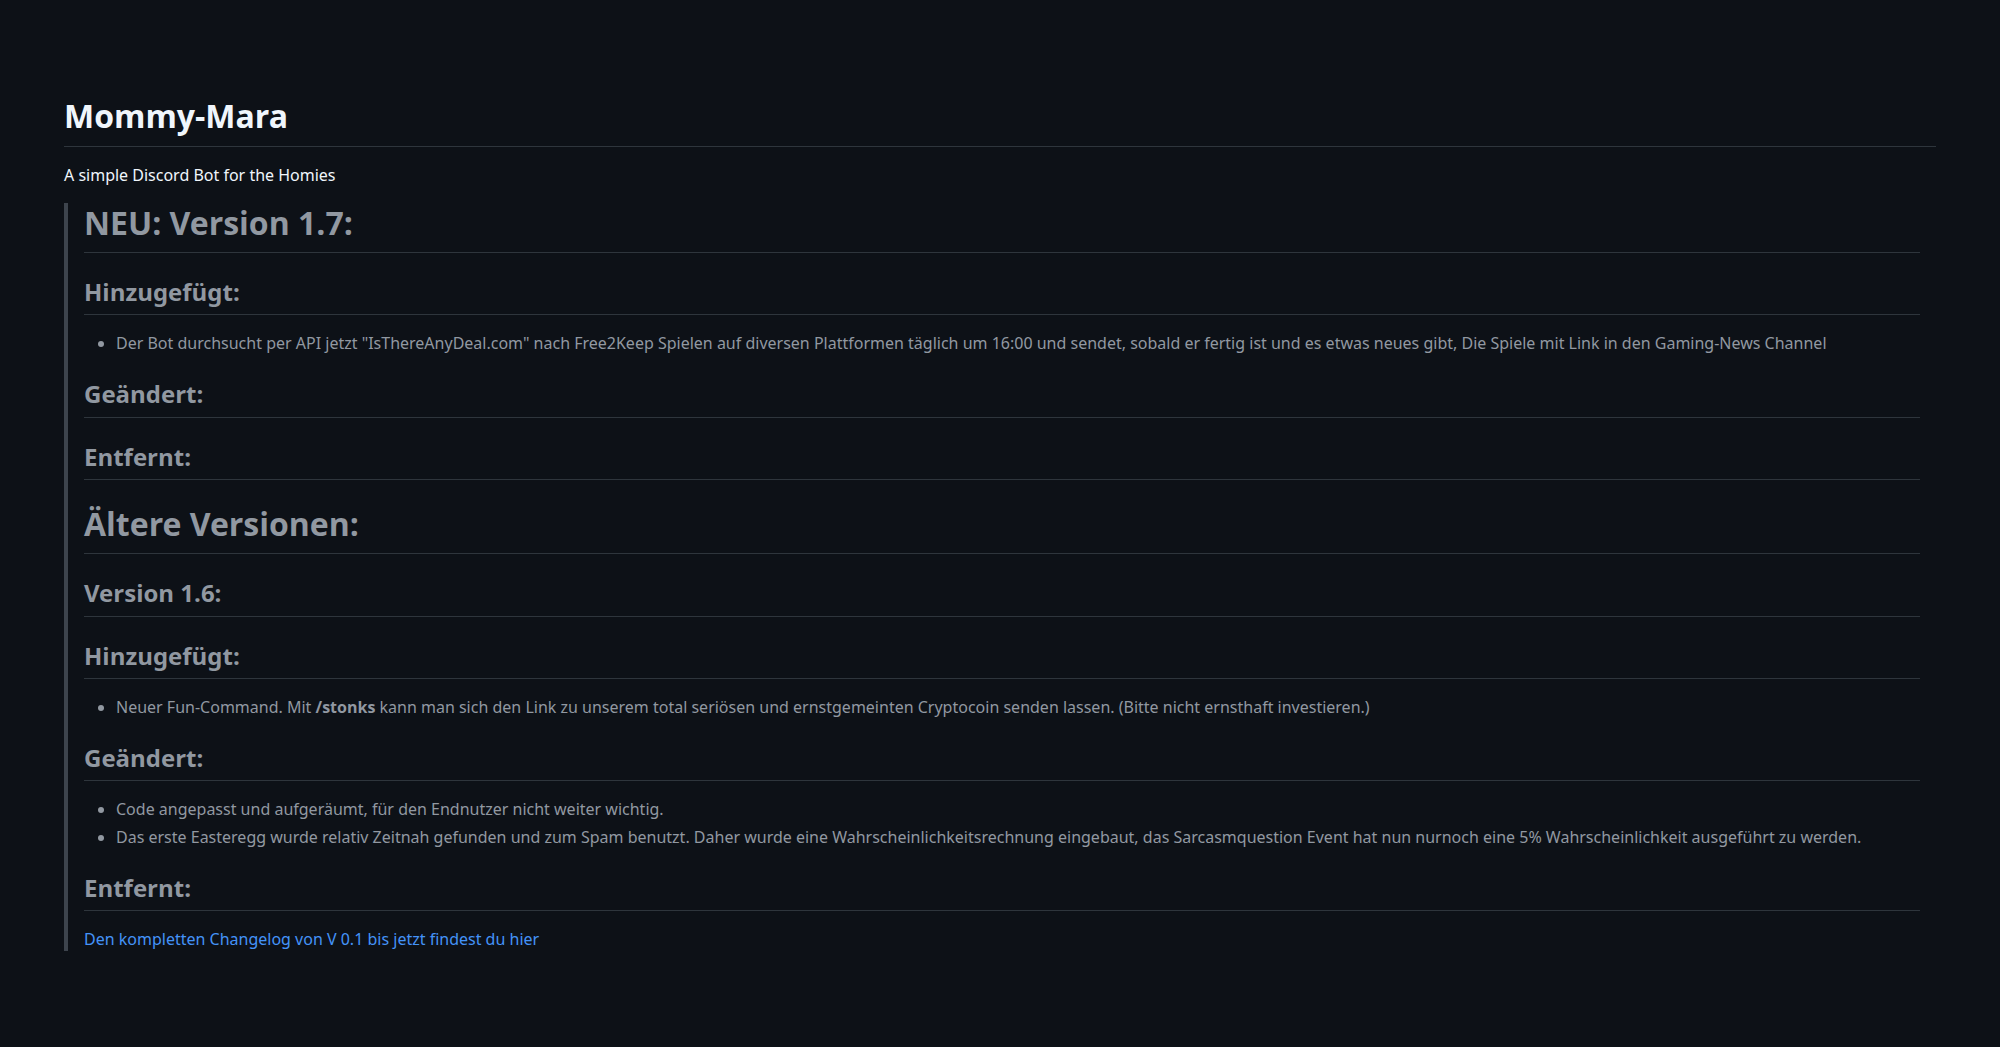
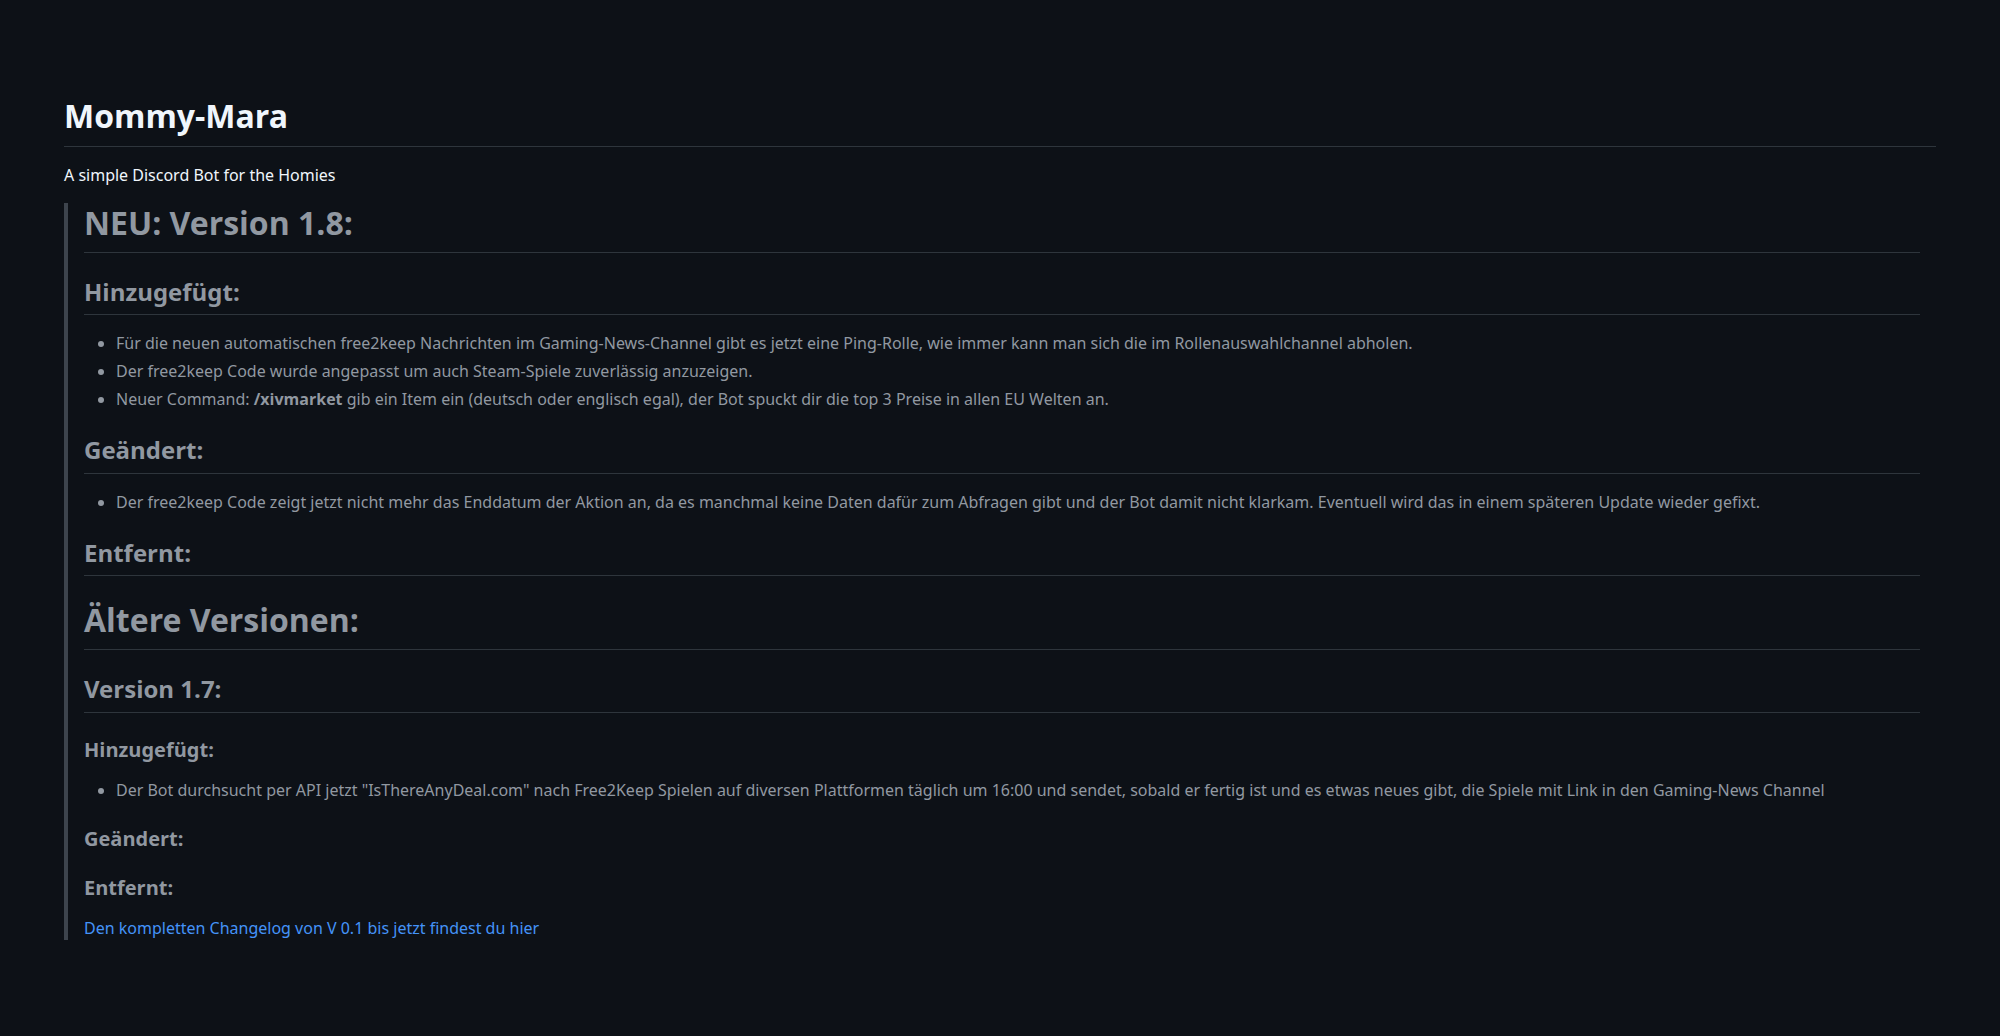
Update V1.8

diff --git a/commands/Fun/xivmarket.js b/commands/Fun/xivmarket.js
@@ -1,0 +1,171 @@
+const { SlashCommandBuilder } = require('discord.js');
+
+const cooldown = new Set();
+const cooldownTime = 5000;
+
+module.exports = {
+    data: new SlashCommandBuilder()
+        .setName('xivmarket')
+        .setDescription('Frage die top 3 Preise eines FF14 Items ab')
+        .addStringOption(option =>
+            option.setName('item')
+                .setDescription('Welches Item suchst du?')
+                .setRequired(true)),
+
+    async execute(interaction) {
+
+        var item = interaction.options.getString('item');
+
+        if (cooldown.has(interaction.user.id)) {
+
+            interaction.reply({ content: "Brudi du bist noch auf Cooldown, warte bitte.", ephemeral: true });
+
+        }
+        else {
+
+            await interaction.reply({ content: 'Gib mir ne Sekunde.', ephemeral: true })
+
+            const fetch = require('node-fetch');
+
+            const DC_NAMES = ['Chaos', 'Light'];
+
+            const norm = s => s
+                ? s.normalize('NFD').replace(/\p{Diacritic}/gu, '').toLowerCase().trim()
+                : '';
+
+            function levenshtein(a = '', b = '') {
+                const m = a.length, n = b.length;
+                const dp = Array.from({ length: m + 1 }, (_, i) => [i].concat(Array(n).fill(0)));
+                for (let j = 0; j <= n; j++) dp[0][j] = j;
+                for (let i = 1; i <= m; i++) {
+                    for (let j = 1; j <= n; j++) {
+                        const cost = a[i - 1] === b[j - 1] ? 0 : 1;
+                        dp[i][j] = Math.min(
+                            dp[i - 1][j] + 1,
+                            dp[i][j - 1] + 1,
+                            dp[i - 1][j - 1] + cost
+                        );
+                    }
+                }
+                return dp[m][n];
+            }
+
+            async function findItem(query) {
+                const languages = ['de', 'en'];
+                const nq = norm(query);
+                const MAX_DIST = 5;
+
+                for (const lang of languages) {
+                    const url = `https://cafemaker.wakingsands.com/search?indexes=item&string=${encodeURIComponent(query)}&language=${lang}`;
+                    try {
+                        const res = await fetch(url);
+                        if (!res.ok) continue;
+                        const data = await res.json();
+                        if (!data.Results || !data.Results.length) continue;
+
+                        const exact = data.Results.find(r => norm(r.Name) === nq);
+                        if (exact) return { id: exact.ID, name: exact.Name };
+
+                        let best = null;
+                        for (const r of data.Results) {
+                            const dist = levenshtein(nq, norm(r.Name));
+                            if (dist <= MAX_DIST && (!best || dist < best.dist)) {
+                                best = { id: r.ID, name: r.Name, dist };
+                            }
+                        }
+
+                        if (best) return best;
+
+                    } catch (err) {
+                    }
+                }
+
+                return null;
+            }
+
+
+            async function fetchListingsEU(itemId, listingsPerDc = 100) {
+                const listings = [];
+                for (const dc of DC_NAMES) {
+                    const url = `https://universalis.app/api/v2/${dc}/${itemId}?listings=${listingsPerDc}`;
+                    try {
+                        const res = await fetch(url);
+                        if (!res.ok) continue;
+                        const data = await res.json();
+                        if (Array.isArray(data.listings)) {
+                            data.listings.forEach(L => {
+                                if (typeof L.pricePerUnit === 'number')
+                                    listings.push({ ...L, dc, total: L.pricePerUnit * (L.quantity || 1) });
+                            });
+                        }
+                    } catch { }
+                }
+                return listings;
+            }
+
+            async function getTop3EUPrices(query) {
+                try {
+                    const item = await findItem(query);
+                    if (!item) return [`Fehler: Item nicht gefunden! (${query})`];
+
+                    const listings = await fetchListingsEU(item.id);
+                    if (!listings.length) return [`Keine Listings für "${item.name}" gefunden`];
+
+                    listings.sort((a, b) => a.pricePerUnit - b.pricePerUnit || a.quantity - b.quantity);
+
+                    return listings.slice(0, 3).map((l, i) => ({
+                        rank: i + 1,
+                        itemId: item.id,
+                        itemName: item.name,
+                        dc: l.dc,
+                        world: l.worldName || l.world || '<unknown>',
+                        hq: !!l.hq,
+                        pricePerUnit: l.pricePerUnit,
+                        quantity: l.quantity,
+                        total: l.total
+                    }));
+
+                } catch (e) {
+                    return
+                }
+            }
+            module.exports = { getTop3EUPrices };
+
+            (async () => {
+                const listings = await getTop3EUPrices(item);
+
+                if (!listings || typeof listings[0] === 'string') {
+                    interaction.editReply(`Item nicht gefunden, entweder Schreibfehler oder keine Listings`)
+                    return;
+                }
+
+                const itemName = listings[0].itemName;
+
+                const price1 = listings[0].pricePerUnit;
+                const price2 = listings[1]?.pricePerUnit;
+                const price3 = listings[2]?.pricePerUnit;
+
+                const world1 = listings[0].world;
+                const world2 = listings[1]?.world;
+                const world3 = listings[2]?.world;
+
+                const quantity1 = listings[0].quantity;
+                const quantity2 = listings[1]?.quantity;
+                const quantity3 = listings[2]?.quantity;
+
+
+                interaction.editReply(`> Folgende Listings wurden für **${itemName}** gefunden:\n> \n> ### 📌${world1}: ${price1} Gil, ${quantity1} Stück\n> \n> ### 📌${world2}: ${price2} Gil, ${quantity2} Stück\n> \n> ### 📌${world3}: ${price3} Gil, ${quantity3} Stück`)
+            })();
+
+
+
+
+
+            cooldown.add(interaction.user.id);
+            setTimeout(() => {
+                cooldown.delete(interaction.user.id);
+            }, cooldownTime);
+
+        }
+    },
+};

diff --git a/events/freegames.js b/events/freegames.js
@@ -2,7 +2,7 @@ const https = require("https");
 const fs = require("fs");
 const cron = require("node-cron");
 const client = require("../index.js")
-const channel = "1261020564730941580"
+const channel = "1332442011239710812"
 
 const { API_KEY } = require("../config.json");
 const BASE_URL = "https://api.isthereanydeal.com/deals/v2";
@@ -39,16 +39,15 @@ function fetchPage(offset) {
           const list = json.list || json.data?.list || [];
           resolve(list);
         } catch (err) {
-          console.error("Fehler beim Parsen:", err);
           resolve([]);
         }
       });
     }).on("error", err => {
-      console.error("HTTP-Fehler:", err);
       resolve([]);
     });
   });
 }
+
 
 async function fetchAllDeals() {
   let offset = 0, page = 1, allDeals = [];
@@ -87,33 +86,78 @@ function chunkMessage(lines) {
   return chunks;
 }
 
+const puppeteer = require("puppeteer");
+
+async function fetchSteamDB() {
+  const browser = await puppeteer.launch({ headless: true });
+  const page = await browser.newPage();
+
+  const url = "https://store.steampowered.com/search/?maxprice=free&specials=1&ndl=1";
+  await page.goto(url, { waitUntil: "networkidle2" });
+
+  await page.waitForSelector(".search_result_row");
+
+  const deals = await page.evaluate(() => {
+    const rows = Array.from(document.querySelectorAll(".search_result_row"));
+    return rows.map(r => {
+      const title = r.querySelector(".title")?.innerText.trim();
+      const link = r.href;
+      let expiry = null;
+
+      const discountSpan = r.querySelector(".search_discount span");
+      if (discountSpan) {
+        const text = discountSpan.innerText;
+        const match = text.match(/Free until (.+)/);
+        if (match) {
+          expiry = new Date(match[1]).getTime() / 1000;
+        }
+      }
+
+      return { title, deal: { url: link, expiry }, source: "Steam" };
+    });
+  });
+
+  await browser.close();
+  return deals;
+}
+
 async function checkDeals() {
   const allDeals = await fetchAllDeals();
 
-  const todayDeals = allDeals.filter(g => g.deal.cut >= 100);
+  const steamDeals = await fetchSteamDB();
 
+  const todayDeals = allDeals.filter(g => g.deal.cut >= 100);
   const todayTitles = todayDeals.map(g => g.title);
+
+  const steamTitles = steamDeals.map(d => d.title);
+
+  const allTitlesToSave = [...todayTitles, ...steamTitles];
+
   const oldTitles = loadOldDeals();
-  const newDeals = todayDeals.filter(g => !oldTitles.includes(g.title));
+
+  const combinedDeals = [...todayDeals, ...steamDeals];
+  const newDeals = combinedDeals.filter(g => !oldTitles.includes(g.title));
+
 
   if (newDeals.length > 0) {
     const messageLines = newDeals.map(g => {
-      const shop = g.deal.shop?.name || "Unbekannter Shop";
-      const endDate = g.deal.expiry ? formatDate(Math.floor(new Date(g.deal.expiry).getTime() / 1000)) : null;
-      const link = g.urls?.buy || g.deal.url || "";
+      const shop = g.deal?.shop?.name || g.source || "Unbekannter Shop";
+      const endDate = g.deal?.expiry ? formatDate(Math.floor(g.deal.expiry)) : null;
+      const link = g.deal?.url || "";
       return `## - [${shop}] [**${g.title}**](${link})${endDate ? `\n→ **endet am ${endDate}**\n` : ""}`;
     });
 
     const chunks = chunkMessage(messageLines);
-    chunks.forEach((chunk, idx) => {
-      client.channels.cache.get(channel).send(`\n# 📢 Neue Free2Keep-Titel:\n${chunk}\n`);
-    });
+    for (const chunk of chunks) {
+      client.channels.cache.get(channel)?.send(`\n<@&1405476709062545408>\n# 📢 Neue Free2Keep-Titel:\n${chunk}\n`);
+    }
   }
 
-  saveDeals(todayTitles);
+  saveDeals(allTitlesToSave);
 }
 
-cron.schedule("* 16 * * *", () => {
+
+cron.schedule("0 16 * * *", () => {
   checkDeals();
 });
 

diff --git a/events/ready.js b/events/ready.js
@@ -11,7 +11,7 @@ const reactionmessagetext = fs.readFileSync('./REACTIONMESSAGE.md').toString();
 
 const consentmessagetext = fs.readFileSync('./CONSENTMESSAGE.md').toString();
 
-let EmoteIDs = ['1187771288538861689', '1187773164533600377', '1187773148867870851', '1187773174813839530', '1116463855955091518', '1187773155473887242', '1187773151850020874', '1187772048102133761', '1261600995100725248', '1187773171311591474', '1187773167628992564']
+let EmoteIDs = ['1187771288538861689', '1187773164533600377', '1187773148867870851', '1187773174813839530', '1116463855955091518', '1187773155473887242', '1187773151850020874', '1187772048102133761', '1261600995100725248', '1187773171311591474', '1187773167628992564', '1116459600791752744']
 
 const Amogusded = '1164163602433974312';
 

diff --git a/events/ReactionRoles.js b/events/ReactionRoles.js
@@ -28,7 +28,9 @@ const rpg = { emote: '1116463855955091518', role: '1236744003299311769' };
 
 const no = { emote: '1164163602433974312', role: '1237782649477664839' };
 
-let emoteArray = [moba, shooter, simulator, mmo, horror, fighting, sandbox, racing, vr, other, rpg, no]
+const fgping = { emote: '1116459600791752744', role: '1405476709062545408' };
+
+let emoteArray = [moba, shooter, simulator, mmo, horror, fighting, sandbox, racing, vr, other, rpg, no, fgping]
 
 module.exports = {
     name: Events.MessageReactionAdd,

diff --git a/CHANGELOG.md b/CHANGELOG.md
@@ -1,26 +1,27 @@
 # Mommy-Mara
 A simple Discord Bot for the Homies
 
-> # NEU: Version 1.7:
+> # NEU: Version 1.8:
 > 
 > ## Hinzugefügt:
-> * Der Bot durchsucht per API jetzt "IsThereAnyDeal.com" nach Free2Keep Spielen auf diversen Plattformen täglich um 16:00 und sendet, sobald er fertig ist und es etwas neues gibt, Die Spiele mit Link in den Gaming-News Channel
+> * Für die neuen automatischen free2keep Nachrichten im Gaming-News-Channel gibt es jetzt eine Ping-Rolle, wie immer kann man sich die im Rollenauswahlchannel abholen.
+> * Der free2keep Code wurde angepasst um auch Steam-Spiele zuverlässig anzuzeigen.
+> * Neuer Command: **/xivmarket** gib ein Item ein (deutsch oder englisch egal), der Bot spuckt dir die top 3 Preise in allen EU Welten an.
 > 
 > ## Geändert:
+> * Der free2keep Code zeigt jetzt nicht mehr das Enddatum der Aktion an, da es manchmal keine Daten dafür zum Abfragen gibt und der Bot damit nicht klarkam. Eventuell wird das in einem späteren Update wieder gefixt.
 > 
 > ## Entfernt:
 > 
 > # Ältere Versionen:
 > 
-> ## Version 1.6:
+> ## Version 1.7:
 > 
-> ## Hinzugefügt:
-> * Neuer Fun-Command. Mit **/stonks** kann man sich den Link zu unserem total seriösen und ernstgemeinten Cryptocoin senden lassen. (Bitte nicht ernsthaft investieren.)
+> ### Hinzugefügt:
+> * Der Bot durchsucht per API jetzt "IsThereAnyDeal.com" nach Free2Keep Spielen auf diversen Plattformen täglich um 16:00 und sendet, sobald er fertig ist und es etwas neues gibt, die Spiele mit Link in den Gaming-News Channel
 > 
-> ## Geändert:
-> * Code angepasst und aufgeräumt, für den Endnutzer nicht weiter wichtig.
-> * Das erste Easteregg wurde relativ Zeitnah gefunden und zum Spam benutzt. Daher wurde eine Wahrscheinlichkeitsrechnung eingebaut, das Sarcasmquestion Event hat nun nurnoch eine 5% Wahrscheinlichkeit ausgeführt zu werden.
+> ### Geändert:
 > 
-> ## Entfernt:
+> ### Entfernt:
 > 
 > [Den kompletten Changelog von V 0.1 bis jetzt findest du hier](<https://github.com/LonelyChimo302/Vexgod-Discord-Bot>)

diff --git a/README.md b/README.md
@@ -1,26 +1,38 @@
 # Vexgod-Discord-Bot
 A simple Discord Bot for the Homies
 
-> # NEU: Version 1.7:
+> # Version 1.8:
 > 
 > ## Hinzugefügt:
-> * Der Bot durchsucht per API jetzt "IsThereAnyDeal.com" nach Free2Keep Spielen auf diversen Plattformen täglich um 16:00 und sendet, sobald er fertig ist und es etwas neues gibt, Die Spiele mit Link in den Gaming-News Channel
+> * Für die neuen automatischen free2keep Nachrichten im Gaming-News-Channel gibt es jetzt eine Ping-Rolle, wie immer kann man sich die im Rollenauswahlchannel abholen.
+> * Der free2keep Code wurde angepasst um auch Steam-Spiele zuverlässig anzuzeigen.
+> * Neuer Command: **/xivmarket** gib ein Item ein (deutsch oder englisch egal), der Bot spuckt dir die top 3 Preise in allen EU Welten an.
 > 
 > ## Geändert:
+> * Der free2keep Code zeigt jetzt nicht mehr das Enddatum der Aktion an, da es manchmal keine Daten dafür zum Abfragen gibt und der Bot damit nicht klarkam. Eventuell wird das in einem späteren Update wieder gefixt.
 > 
 > ## Entfernt:
 > 
 > # Ältere Versionen:
+> ## Version 1.7:
+> 
+> ### Hinzugefügt:
+> * Der Bot durchsucht per API jetzt "IsThereAnyDeal.com" nach Free2Keep Spielen auf diversen Plattformen täglich um 16:00 und sendet, sobald er fertig ist und es etwas neues gibt, die Spiele mit Link in den Gaming-News Channel
+> 
+> ### Geändert:
+> 
+> ### Entfernt:
+> 
 > ## Version 1.6:
 > 
-> ## Hinzugefügt:
+> ### Hinzugefügt:
 > * Neuer Fun-Command. Mit **/stonks** kann man sich den Link zu unserem total seriösen und ernstgemeinten Cryptocoin senden lassen. (Bitte nicht ernsthaft investieren.)
 > 
-> ## Geändert:
+> ### Geändert:
 > * Code angepasst und aufgeräumt, für den Endnutzer nicht weiter wichtig.
 > * Das erste Easteregg wurde relativ Zeitnah gefunden und zum Spam benutzt. Daher wurde eine Wahrscheinlichkeitsrechnung eingebaut, das Sarcasmquestion Event hat nun nurnoch eine 5% Wahrscheinlichkeit ausgeführt zu werden.
 > 
-> ## Entfernt:
+> ### Entfernt:
 > 
 > ## Version 1.5:
 > 

diff --git a/REACTIONMESSAGE.md b/REACTIONMESSAGE.md
@@ -11,3 +11,6 @@
 > * Racing-Games = <:Lightning_McQueen:1261600995100725248>
 > * VR-Games = <:VR:1187773171311591474>
 > * Alle anderen Games = <:Steam:1187773167628992564>
+> 
+> 
+> * Im <#1261020564730941580> Channel gepingt werden, wenn es wieder free2keep-Spiele gibt = <:patrick_ping:1116459600791752744>
